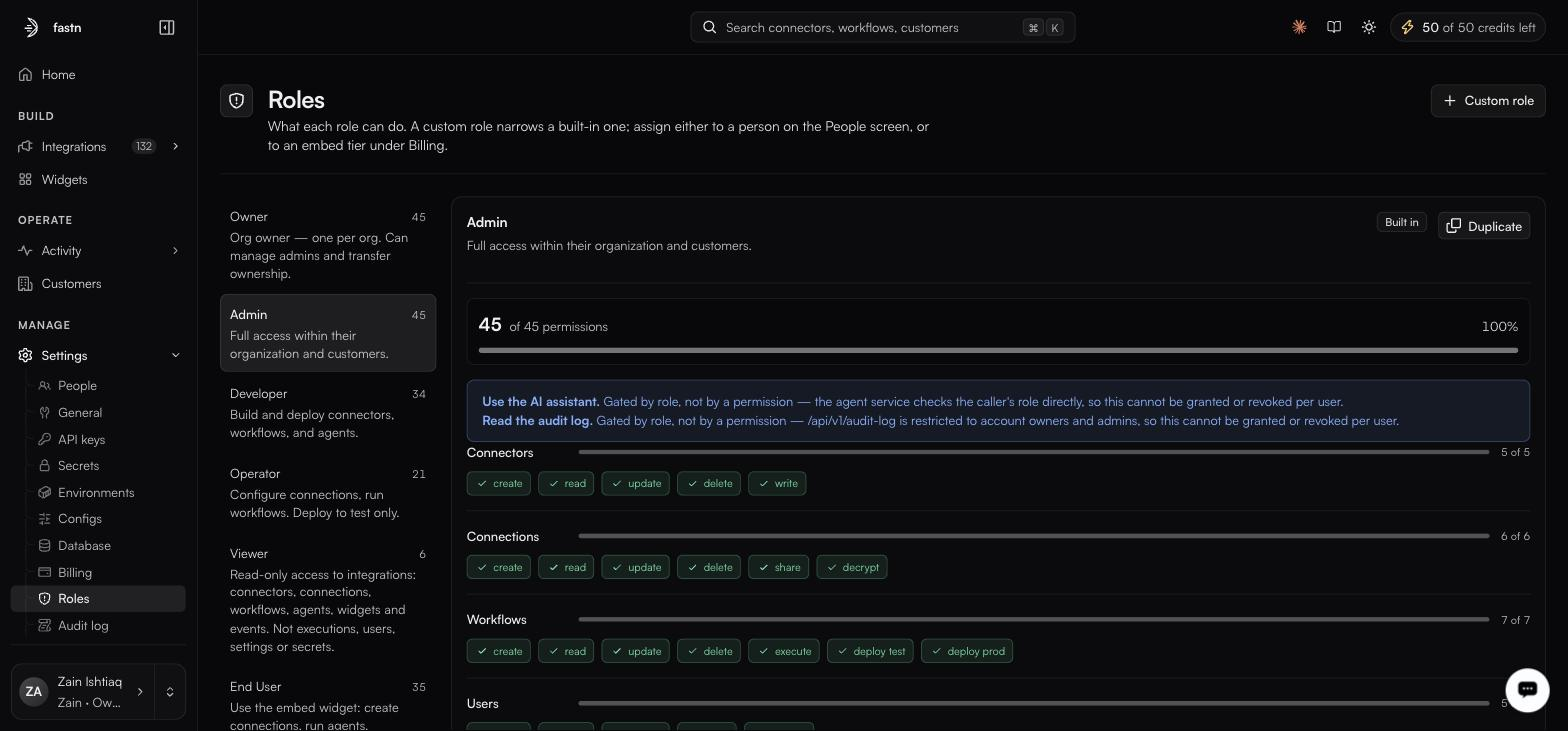
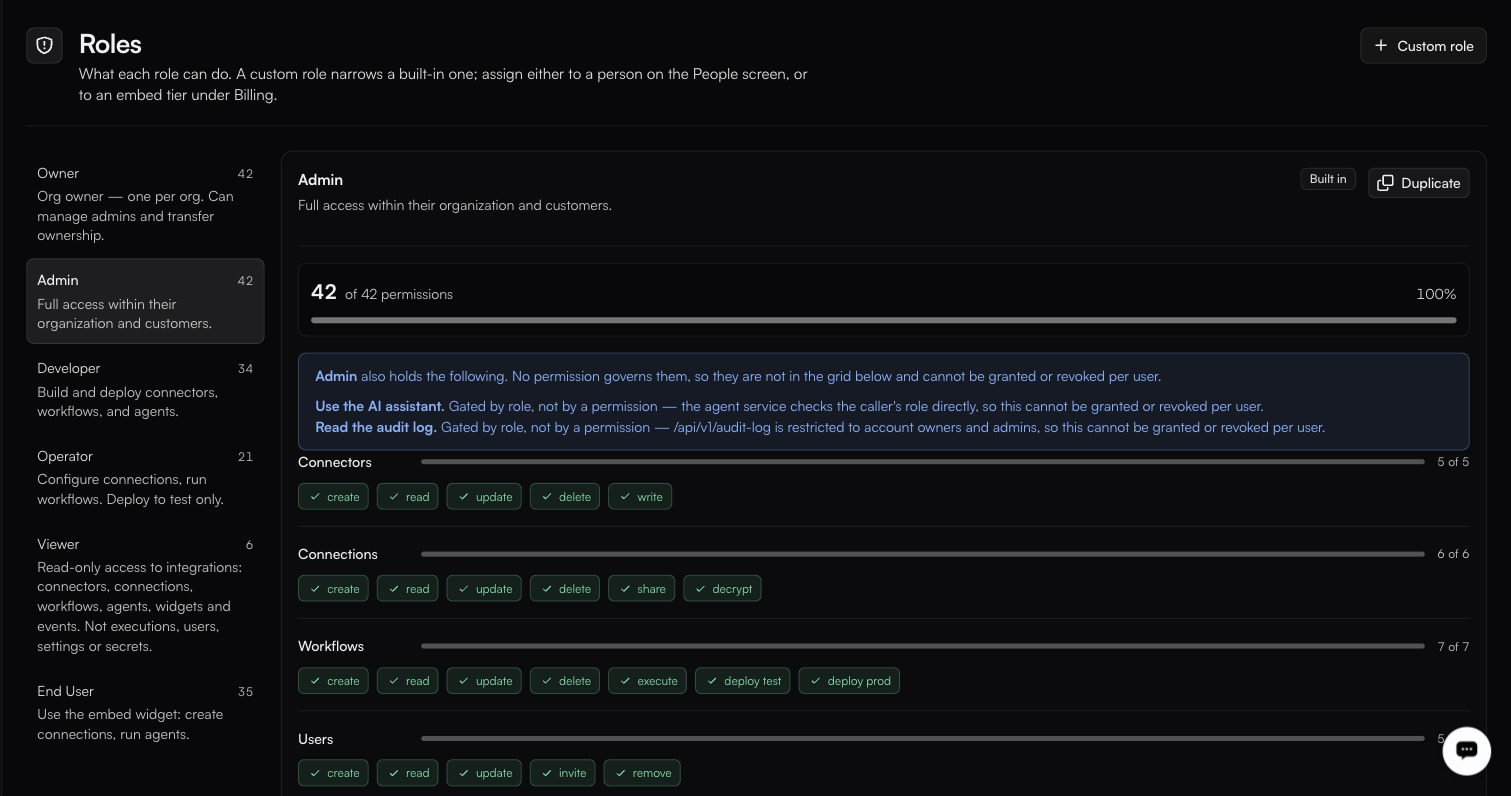
docs: reconcile against the live app; document SaaS Connectors
Verified against app.fastn.dev in the Zain Demo Store org. The product
has moved since the original crawl, and several documented facts were
stale — or, in two cases, my own last commit made them worse.

Corrections:
- Connector catalogue is 351, not 236. Updated the count everywhere it
  appears and recaptured connectors-list.jpg.
- The Agent HAS a sidebar item, at /agent, first under Integrations.
  Both build/agent/README.md and platform-tour.md claimed it had none.
- Revert the "START FROM AN EXAMPLE" change from the previous commit.
  The four cards (Sync deals into billing, Alert before an SLA
  breaches, Keep a sheet current, Give an agent scoped access) are
  real and live on the agent screen; the differing chips I "corrected"
  them to are Home's, a different screen. Restored with the subtitle
  of each card, and a note distinguishing the two.
- Recapture settings-roles.jpg, which showed 45 of 45 from an older
  build. Live is 42 — the prose was right and the screenshot was not.
  Alt text now carries the full set: Owner 42, Admin 42, Developer 34,
  Operator 21, Viewer 6, End User 35.

New page:
- manage/saas-connectors.md documents Settings -> SaaS Connectors,
  which no page covered: registering your own SaaS API's connector and
  defining the connection scopes tenants are provisioned under, with
  the Add SaaS Connector panel field by field and what a scope implies
  (one connection per tenant per scope; widgets tag a scope;
  activation pins the match).
[…]

diff --git a/manage/saas-connectors.md b/manage/saas-connectors.md
@@ -1,0 +1,50 @@
+---
+description: Registering your own SaaS API as a connector, and the scopes tenants connect under.
+---
+
+# SaaS Connectors
+
+**Settings → SaaS Connectors**
+
+> Register your own SaaS API's connectors and define the connection scopes tenants are provisioned under.
+
+Every other connector in fastn represents someone else's system — Shopify, HubSpot, Jira. This screen is for the opposite case: **your own product's API**, registered so that your tenants' connections can be provisioned against it.
+
+<figure><img src="../.gitbook/assets/settings-saas-connectors.jpg" alt="The SaaS Connectors settings page in its empty state, reading No SaaS connectors registered yet above an Add your first SaaS connector button"><figcaption>Before anything is registered. The empty state repeats the whole concept, scopes included.</figcaption></figure>
+
+With nothing registered the page reads:
+
+> No SaaS connectors registered yet. Register your own SaaS API's connector and define connection scopes (e.g. inventory, product) that your tenants' connections are provisioned under.
+
+### Registering one
+
+**Add your first SaaS connector** (or **Add**, once the list is populated) opens the **Add SaaS Connector** panel, which takes two things.
+
+| Field | Notes |
+| ----- | ----- |
+| **Connector \*** | A picker over the whole connector catalogue — *Select your SaaS API's connector…*. Its helper text is the important part: *"The connector for your own SaaS API — the one your tenants' connections are provisioned against."* This is not the system you are integrating **with**; it is the one representing **you**. |
+| **Connection scopes** | A free-text field with an **Add** button beside it, seeded with the example `inventory`. Add as many as you need. |
+
+The panel closes with **Cancel** and **Add SaaS Connector**.
+
+### What a scope is for
+
+The helper text under the scopes field states the rule directly:
+
+> Each tenant holds at most one connection per scope (e.g. inventory, product). A widget tags its SaaS connector with a scope, and activation pins the tenant's matching connection.
+
+Three consequences worth being deliberate about:
+
+* **One connection per tenant per scope.** A scope is the uniqueness key. A tenant cannot hold two `inventory` connections to your API, so a scope is how you stop a customer from accidentally wiring the same thing twice.
+* **Widgets tag against a scope.** The [widget](../embed/widget-builder/README.md) names the scope it wants, which is what lets one widget resolve to the right connection for whichever tenant is looking at it.
+* **Activation pins the match.** When a tenant activates, the connection matching that scope is the one bound — so the scopes you choose here decide how granular per-tenant provisioning can be.
+
+Pick scopes that name a *capability boundary* in your own API — `inventory`, `product`, `billing` — rather than one scope per customer. Customers are already the tenant axis; scopes are the second axis crossing it.
+
+{% hint style="info" %}
+This screen sits in Settings alongside [Environments](environments.md) and [Configs](configs.md) rather than under Build, because registering your own API is an organisation-level act rather than something you do per integration.
+{% endhint %}
+
+{% hint style="warning" %}
+How a scope behaves once connections exist against it — whether it can be renamed or removed with live tenant connections attached — is not documented here. Register a scope you intend to keep, and confirm the behaviour in your own workspace before restructuring one that is in use.
+{% endhint %}

diff --git a/build/agent/README.md b/build/agent/README.md
@@ -4,11 +4,11 @@ description: The chat-driven builder that picks connectors, drafts workflows and
 
 # Agent
 
-**Home → What do you want to build?**
+**Integrations → Agent** (`/agent`), or the **What do you want to build?** prompt on Home
 
-<figure><img src="../../.gitbook/assets/agent-home.jpg" alt="fastn Home, greeting Good afternoon, Zain above a What do you want to build? prompt box, four half-finished suggestion chips, and a Connect to Claude button"><figcaption>The agent has no sidebar entry of its own — this prompt box is the way in.</figcaption></figure>
+<figure><img src="../../.gitbook/assets/agent-start.jpg" alt="The Agent screen at /agent: the Sessions rail on the left listing earlier sessions, and a Build an integration pane with four START FROM AN EXAMPLE cards above a Write a message composer carrying an Auto chip and a 0 / 1000k context meter"><figcaption><strong>Agent</strong> is the first item under Integrations in the sidebar. Home's prompt box opens the same place.</figcaption></figure>
 
-The agent is the primary way integrations get built in fastn. You reach it from the **What do you want to build?** prompt on Home — there is no separate sidebar item for it. The pane is headed **Build an integration**, and states its own contract:
+The agent is the primary way integrations get built in fastn, and there are two ways in: the **Agent** item in the sidebar, directly under **Integrations**, or the **What do you want to build?** prompt on Home. Both land on the same screen, headed **Build an integration**, which states its own contract:
 
 > Describe what you need in plain words. The agents pick the connectors, draft the workflow, and show you the diff before anything runs.
 
@@ -26,10 +26,19 @@ The left rail, headed **Sessions**, holds your session history. Each session kee
 
 ### Starting from an example
 
-A row of suggestion chips sits beneath the prompt box — short starters such as *Sync Stripe MRR to…*, *Log Stripe payouts in…*, *Trigger Mailchimp on Stripe…* or *Alert Slack on failed…*.
+Four cards sit under **START FROM AN EXAMPLE**, each pairing a goal with the concrete detail that makes it buildable:
+
+| Card | What it asks for |
+| ---- | ---------------- |
+| **Sync deals into billing** | Closed-won Salesforce opportunities, custom fields included |
+| **Alert before an SLA breaches** | Post to Slack when a Zendesk ticket is close to its deadline |
+| **Keep a sheet current** | Append new HubSpot contacts to a Google Sheet as they arrive |
+| **Give an agent scoped access** | Read-only Jira for one customer, nothing beyond that |
+
+They are written in the shape a good first message takes — a system, a trigger, and the specific thing that moves — and are worth reading before you write your own.
 
 {% hint style="info" %}
-**These are seeded per workspace and differ between them**, so the ones you see will not match the examples above. Treat them as a demonstration of the shape a good first message takes — name the systems, the trigger and what moves — rather than as a fixed menu. Tap one and edit it to fit.
+Do not confuse these with the suggestion chips on **Home**, which are seeded per workspace and differ between them. The four cards above are the agent screen's own examples.
 {% endhint %}
 
 ### Writing a good first message

diff --git a/getting-started/platform-tour.md b/getting-started/platform-tour.md
@@ -37,7 +37,7 @@ The account card at the bottom-left switches organisation and opens your profile
 | —         | Profile             | `/profile`                          |
 
 {% hint style="info" %}
-The sidebar parent **Integrations** links to its connectors view (`/integrations?tab=connectors`), and its badge shows the number of connectors in your catalogue. The agent has no sidebar item of its own — reach it from the **What do you want to build?** prompt on Home. Both are worth knowing before you go looking for a page that seems to have moved.
+The sidebar parent **Integrations** links to its connectors view (`/integrations?tab=connectors`), and its badge shows the number of connectors in your catalogue. **Agent** is the first item under Integrations, at `/agent`; the **What do you want to build?** prompt on Home opens the same screen. Both are worth knowing before you go looking for a page that seems to have moved.
 {% endhint %}
 
 ### Home
@@ -50,7 +50,7 @@ One prompt box: *What do you want to build?* Type an integration in plain words 
 
 The BUILD group holds two nav items: **Integrations**, which expands into the six pages below, and **Widgets**.
 
-<figure><img src="../.gitbook/assets/connectors-list.jpg" alt="Integrations → Connectors showing 24 of 236 catalogue cards — Adyen, Agile CRM, Aha!, Akeneo PIM, Amplitude — each badged managed and Managed by Fastn, with Import and Create connector top-right"><figcaption>Integrations → Connectors, filtered by connection state, auth type and visibility.</figcaption></figure>
+<figure><img src="../.gitbook/assets/connectors-list.jpg" alt="Integrations → Connectors showing 24 of 351 catalogue cards — AbstractAPI Email Reputation, AbstractAPI Holidays, Adyen, Agile CRM, Aha! — each badged managed and Managed by Fastn, with Import and Create connector top-right"><figcaption>Integrations → Connectors, filtered by connection state, auth type and visibility.</figcaption></figure>
 
 | Page                  | Purpose                                                                                          |
 | --------------------- | ------------------------------------------------------------------------------------------------ |

diff --git a/manage/README.md b/manage/README.md
@@ -6,7 +6,7 @@ description: Organisation settings, access, credentials and billing.
 
 **Settings** in the MANAGE group of the left rail.
 
-**Its sub-navigation is role-scoped — you will not see every page below.** An Owner or Admin sees People, General, API keys, Secrets, Environments, Configs, Database, Billing, Roles, Audit log and Trash; a Developer sees API keys, Secrets, Environments, Configs, Database and Trash. The pages a Developer does not get are the administrative ones — People, General, Billing, Roles and the Audit log; Trash shows for everyone.
+**Its sub-navigation is role-scoped — you will not see every page below.** An Owner or Admin sees People, General, API keys, Secrets, Environments, Configs, Database, SaaS Connectors, Billing, Roles, Audit log and Trash; a Developer sees API keys, Secrets, Environments, Configs, Database and Trash. The pages a Developer does not get are the administrative ones — People, General, Billing, Roles and the Audit log; Trash shows for everyone.
 
 The table follows the Owner sidebar order, with Trash last.
 
@@ -19,6 +19,7 @@ The table follows the Owner sidebar order, with Trash last.
 | [Environments and GitHub](environments.md) | Deployment stages and review gates.                         |
 | [Configs](configs.md)                   | Per-environment values read at runtime.                        |
 | [Database](database.md)                 | Which Postgres your workflows read and write through.          |
+| [SaaS Connectors](saas-connectors.md)   | Your own SaaS API, and the scopes tenants connect under.       |
 | [Billing and limits](billing.md)        | Plan, credits and limits.                                      |
 | [Roles](roles.md)                       | What each role can do, and how to narrow one.                  |
 | [Audit log](audit-log.md)               | Every action taken in the organisation.                        |

diff --git a/build/connectors/README.md b/build/connectors/README.md
@@ -6,7 +6,7 @@ description: Every system your customers can authorise — managed, imported or 
 
 **Integrations → Connectors** · `/integrations?tab=connectors`
 
-<figure><img src="../../.gitbook/assets/connectors-list.jpg" alt="The Connectors catalogue showing 24 of 236 cards — Adyen, Agile CRM, Aha!, Akeneo PIM, Amplitude, Anthropic (Claude) — each badged managed and Managed by Fastn, with its own Connect button"><figcaption>Import and Create connector sit top-right; the chips filter by All, Connected, OAuth and visibility.</figcaption></figure>
+<figure><img src="../../.gitbook/assets/connectors-list.jpg" alt="The Connectors catalogue showing 24 of 351 cards — AbstractAPI Email Reputation, AbstractAPI Holidays, Adyen, Agile CRM, Aha!, Airship — each badged managed and Managed by Fastn, with its own Connect button"><figcaption>Import and Create connector sit top-right; the chips filter by All, Connected, OAuth and visibility.</figcaption></figure>
 
 A connector is the definition of one external system: its actions, its authentication methods, its webhook configuration and its versions. It is not a credential — that is a [connection](../connections/README.md).
 

diff --git a/manage/roles.md b/manage/roles.md
@@ -6,7 +6,7 @@ description: What each role can do, and how to narrow one.
 
 **Settings → Roles**
 
-<figure><img src="../.gitbook/assets/settings-roles.jpg" alt="The Roles screen with Owner, Admin, Developer, Operator, Viewer and End User down the left and Admin selected at 45 of 45 permissions, its Connectors, Connections and Workflows groups fully ticked"><figcaption>Two capabilities are called out as role-gated rather than grantable: using the AI assistant and reading the audit log.</figcaption></figure>
+<figure><img src="../.gitbook/assets/settings-roles.jpg" alt="The Roles screen with Owner 42, Admin 42, Developer 34, Operator 21, Viewer 6 and End User 35 down the left, Admin selected at 42 of 42 permissions and 100%, and its Connectors 5 of 5, Connections 6 of 6 and Workflows 7 of 7 groups fully ticked"><figcaption>Two capabilities are called out as role-gated rather than grantable: using the AI assistant and reading the audit log.</figcaption></figure>
 
 > A custom role narrows a built-in one; assign either to a person on the People screen, or to an embed tier under Billing.
 

diff --git a/reference/faqs.md b/reference/faqs.md
@@ -230,7 +230,7 @@ Connectors, connector actions and workflows are in [Trash](../manage/trash.md) a
 
 Because two entries exist for one system — typically one badged **managed** and one badged **Custom**. Asana, HubSpot, Salesforce, Slack, Notion and Cin7 Core all show up this way.
 
-The practical consequence: the connector count is a count of *entries*, not of distinct systems, so "236 connectors" is not 236 different products. Check the badge and the provenance line before you connect, so you do not authorise the copy you did not mean.
+The practical consequence: the connector count is a count of *entries*, not of distinct systems, so "351 connectors" is not 351 different products. Check the badge and the provenance line before you connect, so you do not authorise the copy you did not mean.
 
 </details>
 

diff --git a/build/connectors/the-catalogue.md b/build/connectors/the-catalogue.md
@@ -16,7 +16,7 @@ Connectors marked **managed** are maintained by fastn — when the vendor ships 
 | **All / Connected / OAuth** | Everything · at least one live connection · offers OAuth 2.0 | `?category=` |
 | **All Visibility** | `All Visibility`, `Private`, `Public`                     | `?visibility=`   |
 
-There is no sort control. The list pages at 24 per page with a footer reading `1–24 of 236`; the page number is not kept in the URL, so a deep link always lands on page one.
+There is no sort control. The list pages at 24 per page with a footer reading `1–24 of 351`; the page number is not kept in the URL, so a deep link always lands on page one.
 
 A search that matches nothing shows `No connectors match "x"`, *Try another search or category.* and a **Clear search** button.
 

diff --git a/build/connections/creating-a-connection.md b/build/connections/creating-a-connection.md
@@ -4,7 +4,7 @@ description: Making a connection yourself with New connection, and when to.
 
 # Creating a connection yourself
 
-**New connection** opens a full-screen **Connect a system** picker: a **Search systems** box, an A–Z index, a counter reading `236 of 236 systems`, and one row per connector showing its auth-method label.
+**New connection** opens a full-screen **Connect a system** picker: a **Search systems** box, an A–Z index, a counter reading `351 of 351 systems`, and one row per connector showing its auth-method label.
 
 Use it for connections your organisation owns — your own Slack workspace, your own data warehouse — which a workflow then uses at account level rather than per customer.
 

diff --git a/SUMMARY.md b/SUMMARY.md
@@ -103,6 +103,7 @@
 * [Configs](manage/configs.md)
 * [Environments and GitHub](manage/environments.md)
 * [Database](manage/database.md)
+* [SaaS Connectors](manage/saas-connectors.md)
 * [Billing and limits](manage/billing.md)
 * [Audit log](manage/audit-log.md)
 * [Trash](manage/trash.md)
